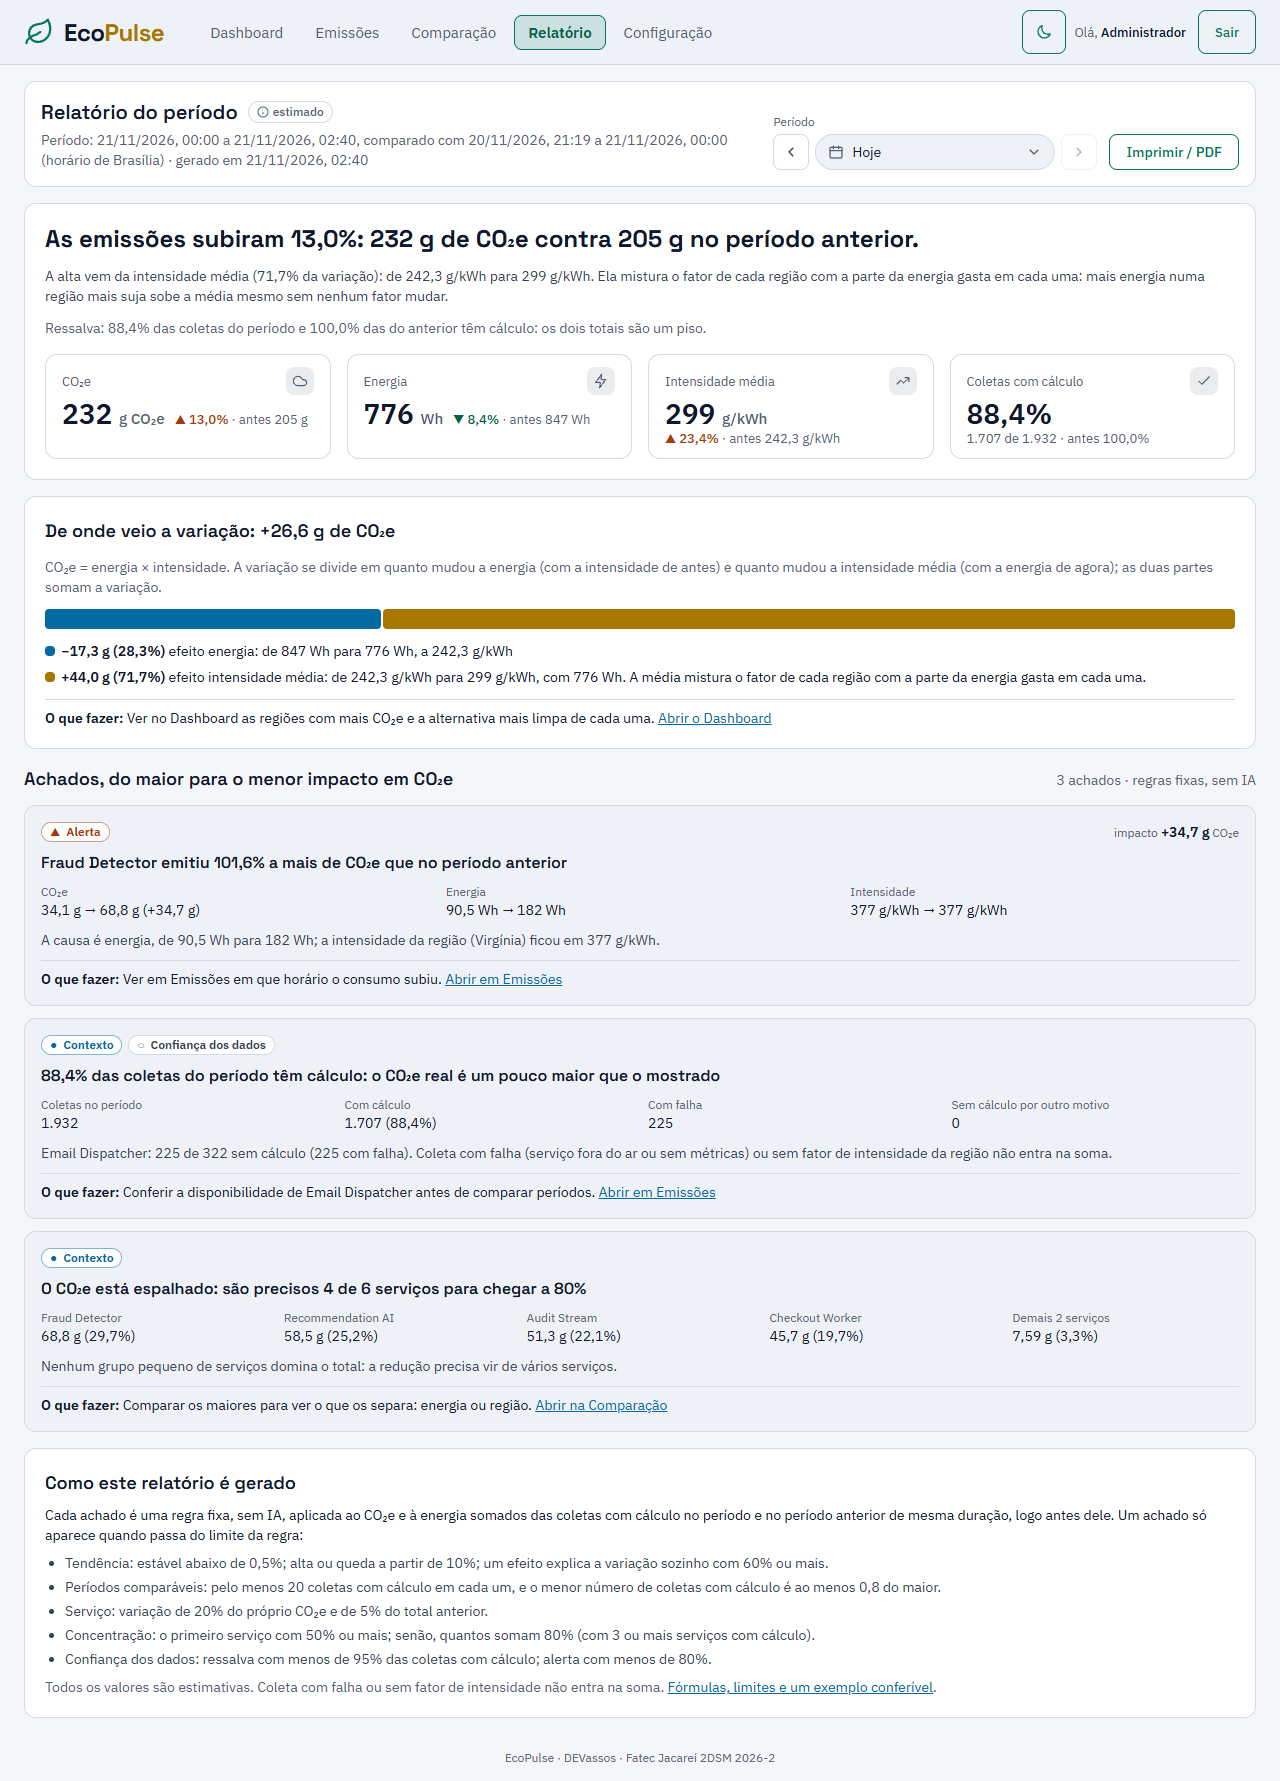
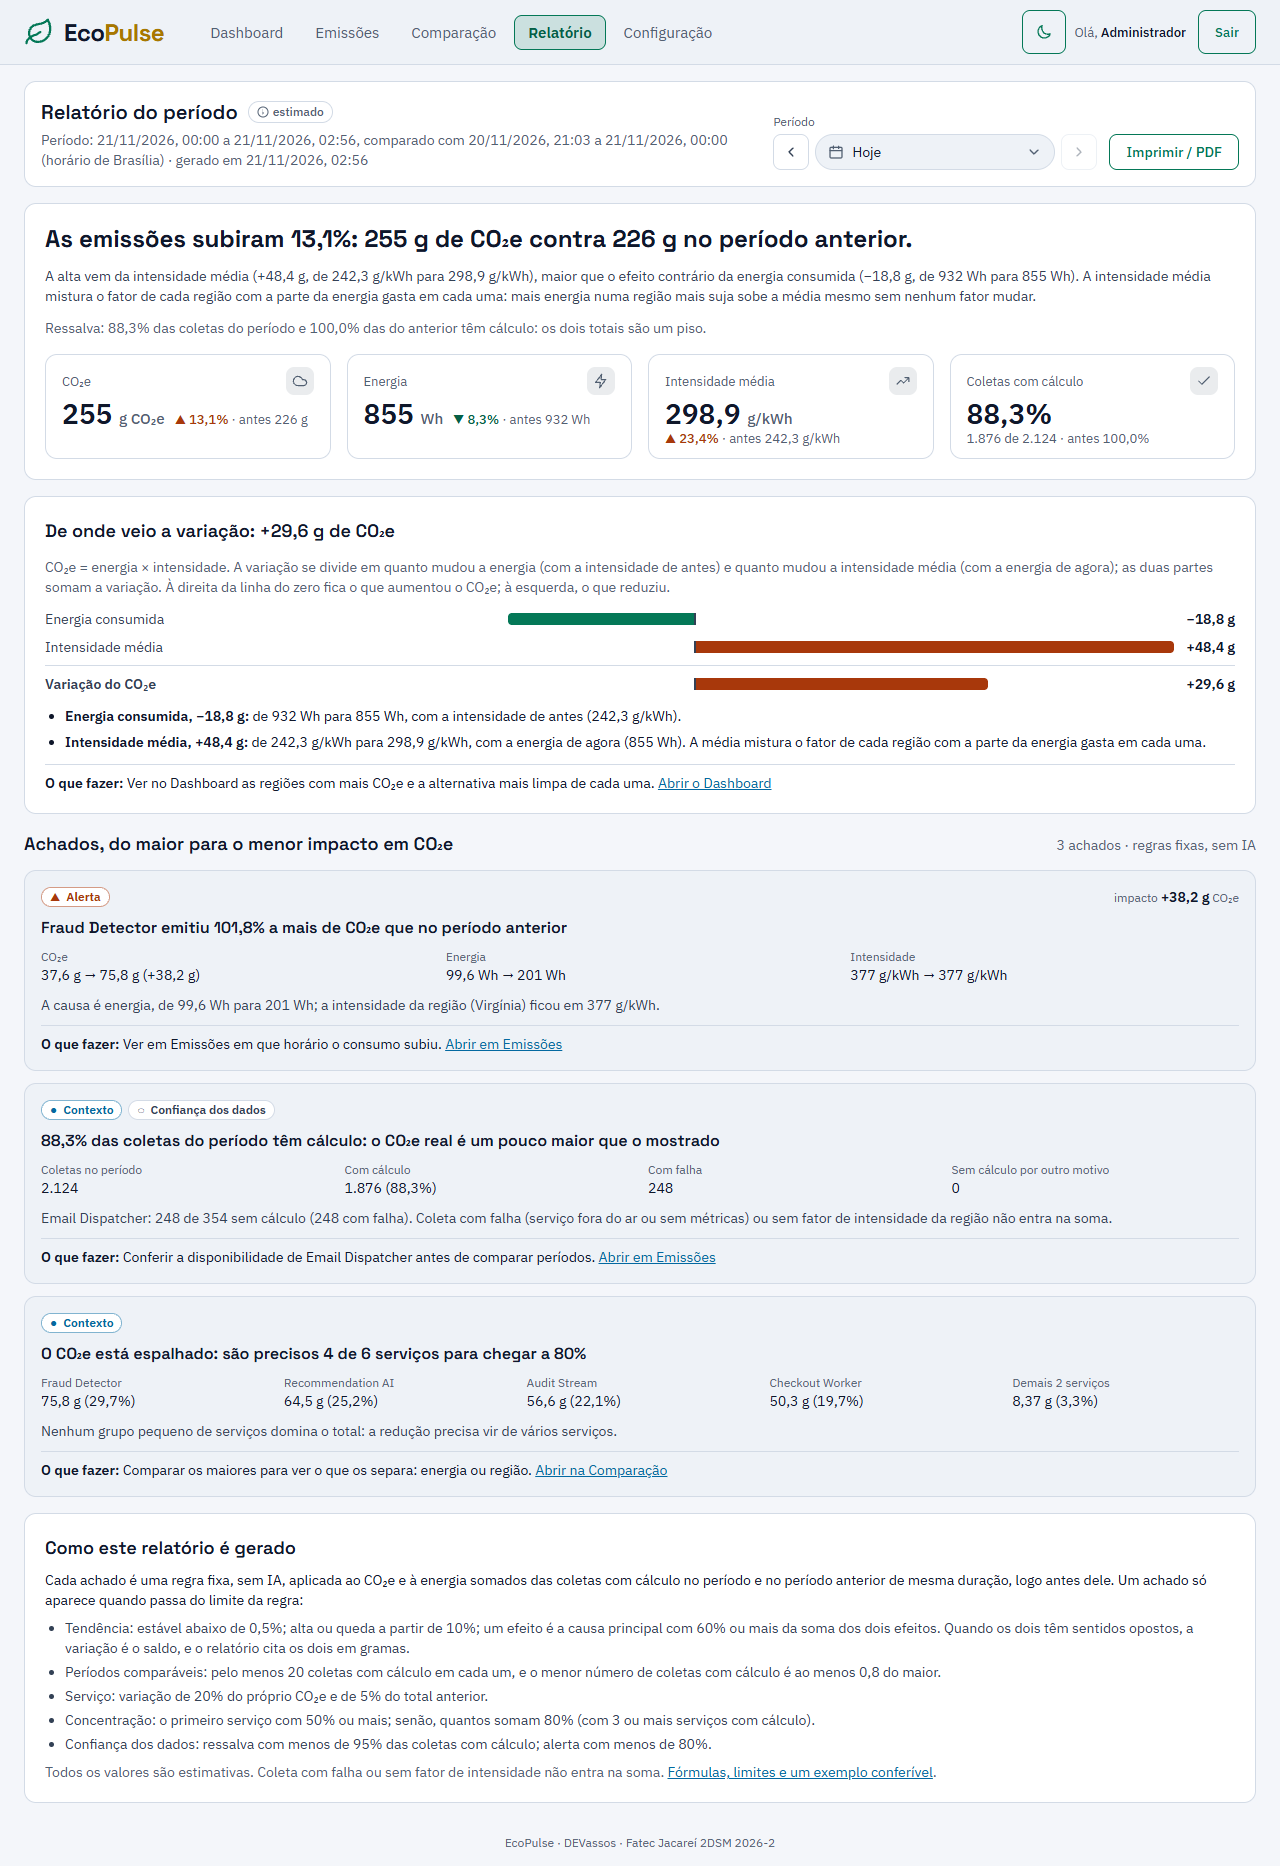
docs(docs): atualiza print e texto da variação do relatório (#403)

diff --git a/README.md b/README.md
@@ -173,11 +173,11 @@ O desenvolvimento acontece na branch `develop`; cada funcionalidade entra nesta 
 
   _Prévia de impressão com o backend real (`docker compose up --build`) em 19/11/2026, 12h01, em largura A4: Audit Stream (`jp-east`) em 18/11, com 1.511 coletas, 405 g de CO₂e e 870 Wh; a tabela segue com 96 intervalos de 15 min nas páginas seguintes, com o total (404,54 g) no fim. O CSV do mesmo dia tem 1.511 linhas, e a soma da coluna `co2e_g` dá 404,54 g._
 
-- **RF08, RF14 — Relatório do período gerado por regras (US13 #54; #402 e #403):** o item **Relatório** do menu abre `/relatorio`, que compara o período escolhido (o mesmo seletor de Emissões, com o período na URL) com o período anterior de mesma duração, logo antes dele, mostrando as duas janelas com data e hora. Abre com uma frase que diz o achado ("As emissões subiram 13,0%: 232 g de CO₂e contra 205 g no período anterior"), quatro cards com a variação (CO₂e, energia, intensidade média e coletas com cálculo), **De onde veio a variação**, que divide a diferença em efeito energia e efeito intensidade média (ΔC = ΔE × I₀ + E₁ × ΔI, as duas partes somam a variação), e os achados em ordem de impacto em CO₂e — alta ou queda de cada serviço com a causa, concentração e confiança dos dados —, cada um com tipo em cor e texto, evidência, causa e **O que fazer** com o link para a tela onde agir. Os achados saem de regras fixas, sem IA, com os limiares escritos na própria página; o total é a soma de `GET /api/services/ranking` no mesmo período, igual à de `GET /api/services/summary`. Se só o período anterior falha, o relatório sai sem comparação e diz isso; **Imprimir / PDF** gera o relatório em A4 ([fórmulas, limiares e exemplo em docs/calculos.md](docs/calculos.md#relatório-do-período); [detalhes](frontend/README.md#relatório-do-período-us13-54-403)).
+- **RF08, RF14 — Relatório do período gerado por regras (US13 #54; #402 e #403):** o item **Relatório** do menu abre `/relatorio`, que compara o período escolhido (o mesmo seletor de Emissões, com o período na URL) com o período anterior de mesma duração, logo antes dele, mostrando as duas janelas com data e hora. Abre com uma frase que diz o achado ("As emissões subiram 13,1%: 255 g de CO₂e contra 226 g no período anterior"), quatro cards com a variação (CO₂e, energia, intensidade média e coletas com cálculo), **De onde veio a variação**, que divide a diferença em efeito energia e efeito intensidade média (ΔC = ΔE × I₀ + E₁ × ΔI, as duas partes somam a variação) em barras divergentes a partir do zero — o que aumentou o CO₂e à direita, o que reduziu à esquerda, e a variação como saldo —, e os achados em ordem de impacto em CO₂e — alta ou queda de cada serviço com a causa, concentração e confiança dos dados —, cada um com tipo em cor e texto, evidência, causa e **O que fazer** com o link para a tela onde agir. Os achados saem de regras fixas, sem IA, com os limiares escritos na própria página; o total é a soma de `GET /api/services/ranking` no mesmo período, igual à de `GET /api/services/summary`. Se só o período anterior falha, o relatório sai sem comparação e diz isso; **Imprimir / PDF** gera o relatório em A4 ([fórmulas, limiares e exemplo em docs/calculos.md](docs/calculos.md#relatório-do-período); [detalhes](frontend/README.md#relatório-do-período-us13-54-403)).
 
   ![Relatório do período com a alta do CO₂e, a divisão em efeito energia e intensidade e os achados](docs/img/sprint-3-relatorio.png)
 
-  _Relatório com o backend falso (`npm run mock`) em 21/11/2026, 02h40, em 1280 px, período "Hoje". O mock devolve quase o mesmo CO₂e nos dois períodos ("O CO₂e ficou estável"); para mostrar os achados de tendência, a resposta do ranking foi alterada no navegador pelo Playwright (`page.route`): no período anterior, Fraud Detector com metade da energia e Reporting Batch com 80% a mais; no período escolhido, 70% das coletas do Email Dispatcher com falha. A energia caiu 8,4%, mas foi para regiões mais sujas: a intensidade média subiu 23,4%, e o CO₂e, 13,0%._
+  _Relatório com o backend falso (`npm run mock`) em 21/11/2026, 02h56, em 1280 px, período "Hoje". O mock devolve quase o mesmo CO₂e nos dois períodos ("O CO₂e ficou estável"); para mostrar os achados de tendência, a resposta do ranking foi alterada no navegador pelo Playwright (`page.route`): no período anterior, Fraud Detector com metade da energia e Reporting Batch com 80% a mais; no período escolhido, 70% das coletas do Email Dispatcher com falha. A energia caiu 8,3%, mas foi para regiões mais sujas: a intensidade média subiu 23,4%, e o CO₂e, 13,1%. Os dois efeitos têm sentidos opostos (energia −18,8 g, intensidade média +48,4 g, saldo +29,6 g), por isso a frase cita os dois em gramas e não em "% da variação"._
 
 - **RF09, RNF01 — Eixo de Emissões ajustado ao trecho com dados (#332, PR #344):** quando o monitoramento de um serviço começa depois de 20% do período escolhido, o gráfico de Emissões marca o início ("monitoramento começou entre 19:30 e 19:45") e oferece **Ajustar ao trecho com dados**, que encurta o eixo; KPIs e totais continuam sendo do período inteiro, e o texto sob o título avisa isso ([detalhes](frontend/README.md#página-emissões-190)).
 

diff --git a/frontend/README.md b/frontend/README.md
@@ -231,7 +231,7 @@ A API devolve energia em kWh e CO₂e em gramas. A tela escolhe a unidade em `sr
 
 - **Relatório**, no menu do topo, abre `/relatorio`. O período usa o [seletor de período](#seletor-de-período-273) e fica na URL (`/relatorio?de=<AAAA-MM-DD>&ate=<AAAA-MM-DD>`), com as mesmas regras de Emissões (`readPeriodFilter`): sem datas, hoje. O relatório compara esse período com o anterior de mesma duração, logo antes dele (`previousWindow`), e mostra as duas janelas com data e hora e a hora em que foi gerado.
 - `useReport` busca as duas janelas juntas em `GET /api/services/ranking?metric=co2e` (`ranking.service.ts`), sem rota nova: a soma do ranking é a mesma de `GET /api/services/summary` no mesmo período. Uma busca por filtro, sem polling, e cada filtro novo limpa o relatório anterior. As duas chamadas vão por `Promise.allSettled`: se só a do período anterior falha, o relatório sai sem comparação, com o aviso "O período anterior não pôde ser buscado (…): o relatório saiu sem comparação.", e os cards dizem "sem comparação". Se a do período escolhido falha, só o erro com **Tentar novamente**, sem achado nenhum; sem coleta no período, "Nenhuma coleta no período".
-- A página (`ReportPage`) mostra, nesta ordem: a frase-resumo (o achado da tendência, ou o total quando não há período anterior) com a causa e as ressalvas; quatro cards com a variação e o valor de antes — CO₂e, energia, intensidade média (CO₂e ÷ energia, em g/kWh) e coletas com cálculo (`collections − notCalculated`, porque no ranking `notCalculated` já inclui as falhas) —; **De onde veio a variação**, uma barra com o efeito energia (ΔE × I₀) e o efeito intensidade média (E₁ × ΔI), com os dois valores e as porcentagens escritos ao lado, e o **O que fazer** da tendência; os achados, do maior para o menor impacto em CO₂e; e **Como este relatório é gerado**, com os limiares das regras. A barra só aparece com variação de 0,5% ou mais entre períodos comparáveis; nos outros casos, uma frase diz por quê.
+- A página (`ReportPage`) mostra, nesta ordem: a frase-resumo (o achado da tendência, ou o total quando não há período anterior) com a causa e as ressalvas; quatro cards com a variação e o valor de antes — CO₂e, energia, intensidade média (CO₂e ÷ energia, em g/kWh) e coletas com cálculo (`collections − notCalculated`, porque no ranking `notCalculated` já inclui as falhas) —; **De onde veio a variação**, três barras divergentes a partir de uma linha de zero, na mesma escala (`decompositionBars`) — efeito energia (ΔE × I₀), efeito intensidade média (E₁ × ΔI) e a variação do CO₂e —, com o valor e o sinal escritos ao lado; o que aumentou vai para a direita, em laranja, e o que reduziu para a esquerda, em verde; no celular, o rótulo sobe para cima da barra. Não há porcentagem nem barra segmentada: com efeitos de sentidos opostos, a variação é o saldo e um efeito pode passar de 100% dela ([docs/calculos.md](../docs/calculos.md#relatório-do-período)). Depois vem o **O que fazer** da tendência; os achados, do maior para o menor impacto em CO₂e; e **Como este relatório é gerado**, com os limiares das regras. A barra só aparece com variação de 0,5% ou mais entre períodos comparáveis; nos outros casos, uma frase diz por quê.
 - Cada achado (`InsightCard`) tem o tipo em cor e texto — **Alerta** (laranja, ▲), **Oportunidade** (verde, ◆), **Contexto** (azul, ●) e a etiqueta **Confiança dos dados** —, o impacto em g CO₂e quando o achado é uma variação, o título com o número, a evidência, a causa, as ressalvas e **O que fazer**, com o link para Emissões, Comparação ou Dashboard já no período do relatório. As regras ficam em `src/utils/insights.ts`, em funções puras com teste; fórmulas, limiares e exemplo em [docs/calculos.md](../docs/calculos.md#relatório-do-período).
 - **Imprimir / PDF** usa o mesmo mecanismo de Emissões (`usePrintReport`, `PrintHeader`, `src/styles/print.css`): A4 no tema claro, com o cabeçalho do relatório e as duas janelas, sem menu, filtros, botões nem os links do **O que fazer**, e nenhum achado partido entre duas páginas.
 - O backend falso devolve quase o mesmo CO₂e em quaisquer duas janelas de mesma duração, então o relatório dele diz "O CO₂e ficou estável". O ranking do mock passou a contar as falhas em `notCalculated`, como o backend (`docs/api.md`).
